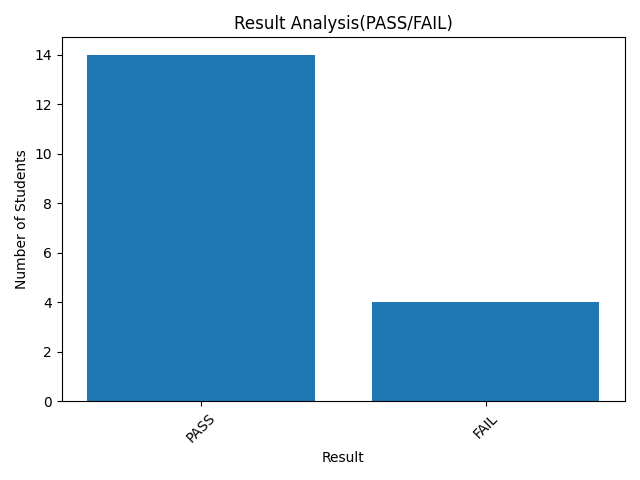
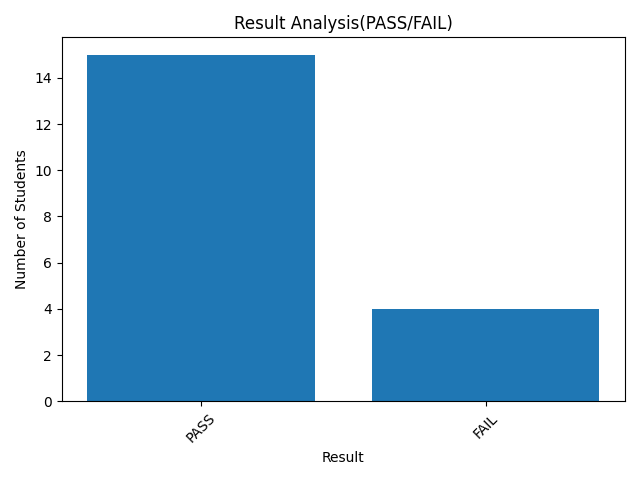
Added Project Demo GIF and finalized Project Documentation

diff --git a/README.MD b/README.MD
@@ -11,6 +11,10 @@ While building it, I practiced working with JSON files, organizing code into mod
 It’s still a simple CLI application, but building it helped me understand how a slightly larger Python program can be structured.
 
 ---
+## Project Demo
+
+![Demo](Demo/Demo_project.gif) 
+
 
 ## Features
 
@@ -156,7 +160,7 @@ The program can also generate bar charts showing top performers and other statis
 
 **Top performing students:
 
-[Top Students](Reports/top5_students.png)
+![Top Students](Reports/top5_students.png)
 
 **Pass vs Fail distribution:
 
@@ -195,4 +199,4 @@ Some ideas I might explore later:
 * building a web version
 * adding more advanced analytics
 
-For now, this project mainly served as a learning experience while practicing Python programming.  
+For now, this project mainly served as a learning experience while practicing Python programming.   
